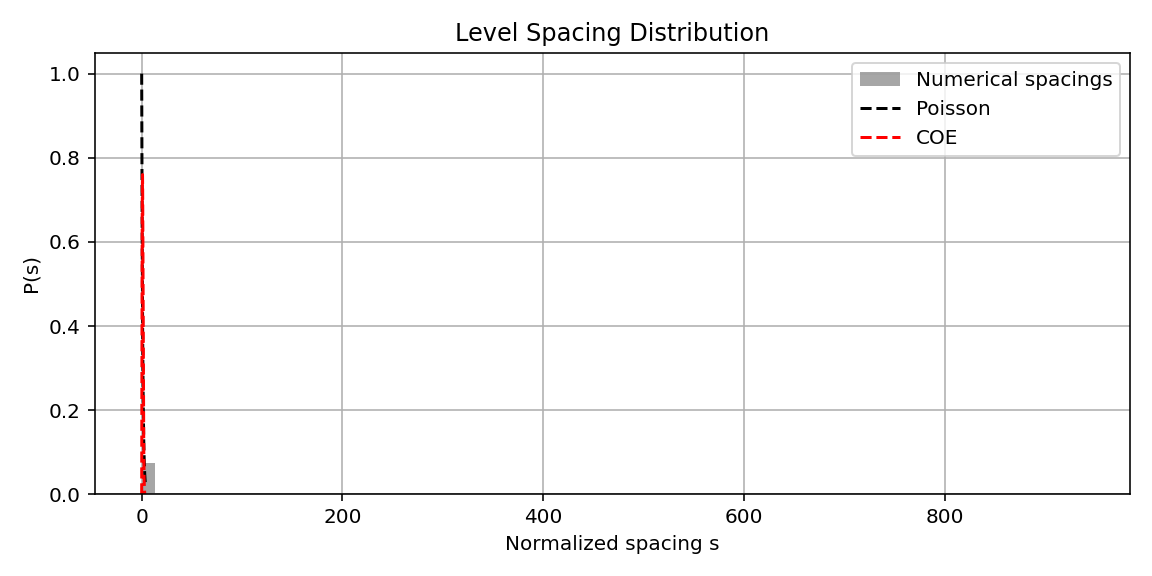
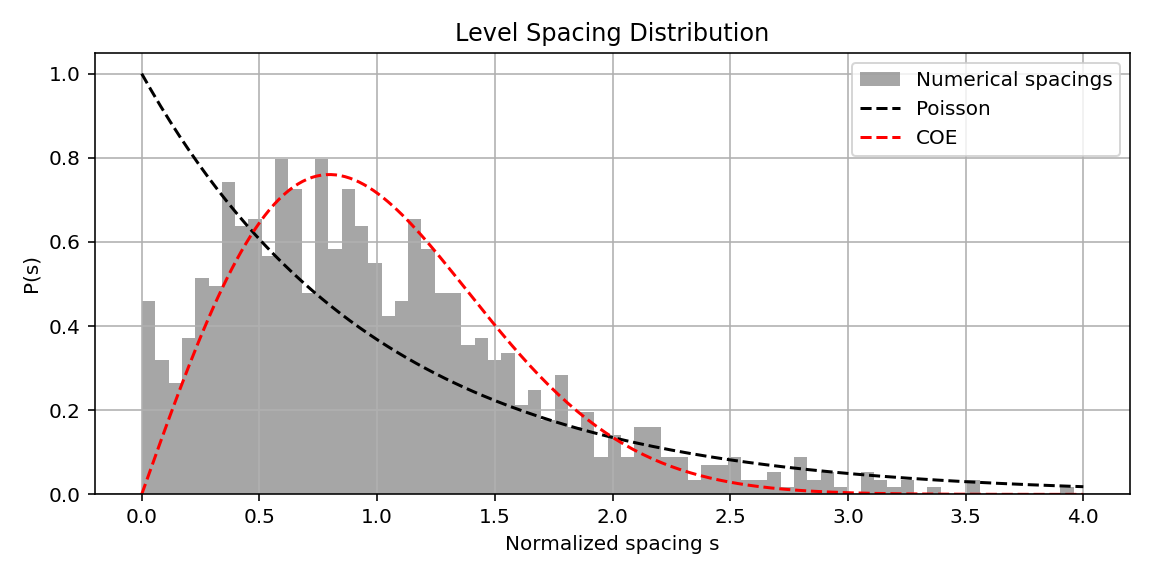
lib branch

diff --git a/plot.py b/plot.py
@@ -34,7 +34,7 @@ def read_complex_csv(filename):
 # Load data
 phases = np.loadtxt("./L14/phases.csv", delimiter=",")
 eigenvectors = read_complex_csv("./L14/psi.csv")
-#eigenvectors = np.loadtxt("./L14/psi.csv", delimiter=",", dtype=np.complex64)  # note: '.cvs' is likely a typo
+#eigenvectors = np.loadtxt("./L14/psi.csv", delimiter=",", dtype=np.complex64)  
 
 # --- Plot 1: Histogram of phases ---
 plt.figure(figsize=(8, 4))
@@ -51,6 +51,8 @@ plt.show()
 sorted_phases = np.sort(phases)
 spacings = np.diff(sorted_phases)
 spacings = np.append(spacings, 2 * np.pi - sorted_phases[-1] + sorted_phases[0])
+clip_max = 4.0
+spacings = spacings[spacings < clip_max]
 spacings = spacings / np.mean(spacings)
 
 plt.figure(figsize=(8, 4))
